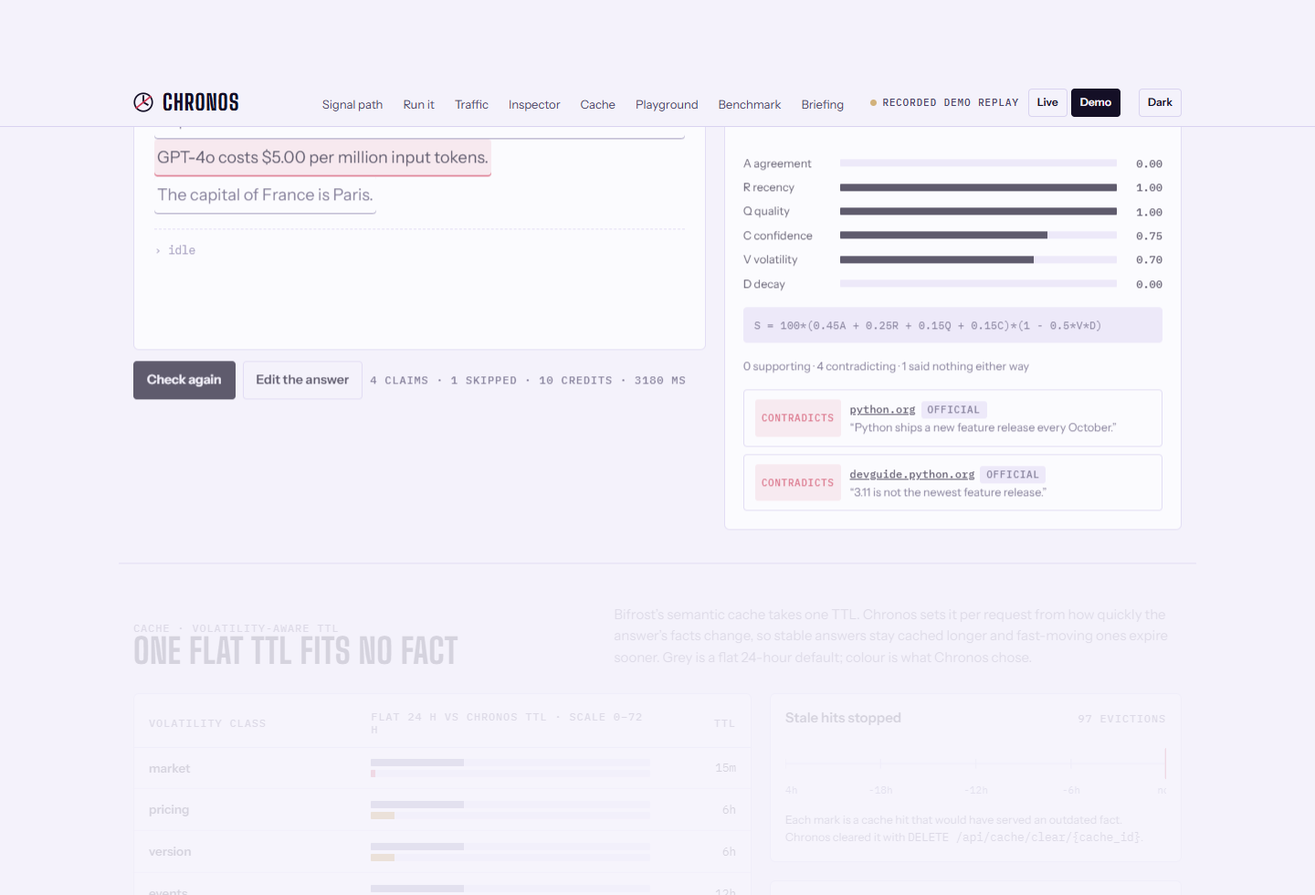
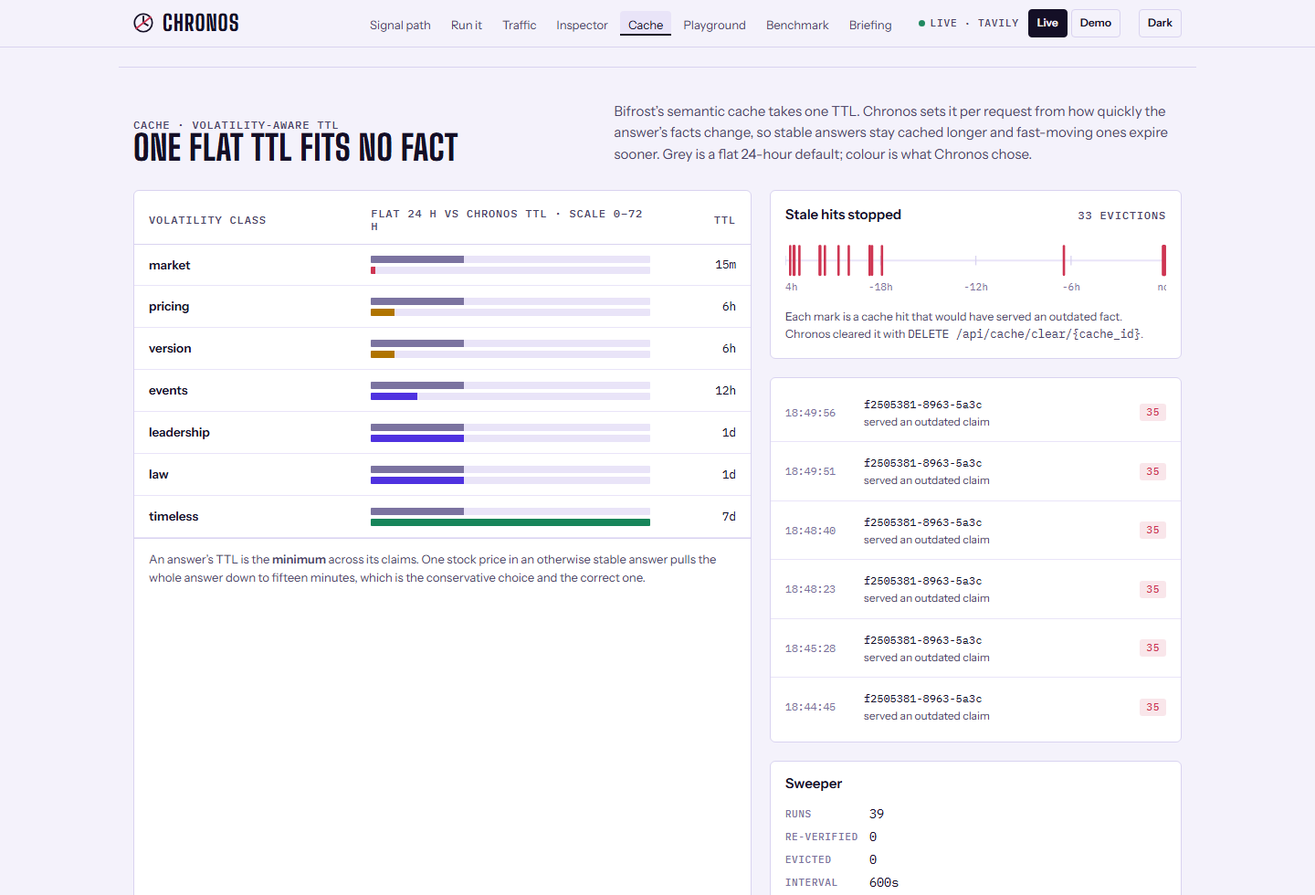
docs: regenerate the screenshots live, add seven, and point at the hosted demo
Fifteen shots from the console running live against the local stack, made
by the readme-suite's shots.mjs: the shot list now uses only clicks and
waits, so the documented command is the whole recipe. New: the signal path,
Run it at the verdict and after eviction, a live inspector check, the
playground, briefing, and two phone layouts.

README opens on the hosted demo and an eight-image gallery. Counts brought
up to date: 49 checks, 115 console tests.

diff --git a/README.md b/README.md
@@ -21,7 +21,8 @@ actually move, and **deletes the cache entry behind any answer it finds has gone
 It is not a fact checker. It has no opinion about anything without a date, it will not rewrite
 an answer, and it is not a proxy in front of a gateway — it is a plugin compiled into one.
 
-**Start here:** [see it work](TESTING.md) · [what is verified](#what-is-verified-and-what-is-not) ·
+**Start here:** [try the live demo](https://chronos-sable-one.vercel.app/) ·
+[see it work](TESTING.md) · [what is verified](#what-is-verified-and-what-is-not) ·
 [how it works](ARCHITECTURE.md) · [all the docs](docs/README.md)
 
 ---
@@ -49,26 +50,36 @@ an answer, and it is not a proxy in front of a gateway — it is a plugin compil
 
 ## What it looks like
 
+**Try it now: [chronos-sable-one.vercel.app](https://chronos-sable-one.vercel.app/)** — the
+real console, hosted as static files. With no backend behind it, it replays a recorded log and
+says so in the header (*"Recorded demo replay"*). Press **Start the walkthrough** for a nine-step
+tour, or scroll to **Run it** and drive the whole cycle yourself with one button.
+
+Everything below was captured from the console running **live** against the local stack —
+real gateway, real verifier, real Tavily searches — except the briefing, which is the recorded
+demo and is labelled so on screen.
+
 | | |
 |---|---|
-| ![The inspector: a cached answer with four highlighted claim spans, one scored 36 and marked outdated, beside its score breakdown and two contradicting sources](docs/screenshots/console-inspector.png) | ![The cache section: seven volatility classes with their chosen TTLs as bars against a flat 24-hour default, beside a ledger of fifteen evictions with cache ids and scores](docs/screenshots/console-cache.png) |
-| **The inspector.** The claims found inside one cached answer, each scored, with every term of the formula and the pages that disagreed, quoted. This is the product. | **The cache ledger.** What Chronos chose for each volatility class against a flat default, and the real evictions underneath, with the cache ids it deleted. |
+| ![The opening: a dark stage with a rotating violet globe, the headline "Your cache remembers. Chronos checks.", two buttons, and three live counters reading 4,748 answers checked, 33 stale cache hits stopped and 79% of Tavily calls saved](docs/screenshots/console-hero.png) | ![The five-step cycle finished in live mode: the cached Python answer struck through, the note "DELETE /api/cache/clear/610663b3…", and a score dial at 35 with the real headers x-chronos-verdict outdated and x-bifrost-cache-hit true](docs/screenshots/console-run-it-evicted.png) |
+| **The opening.** The counters are read from the running verifier, not typed. | **Run it, step five, live.** A real cache hit, verdict `outdated` at 35, and the entry deleted through the gateway's own cache API. This is the product in one screen. |
+| ![The inspector after a live check: three claims highlighted in an answer, the Python version claim scored 39 with every term of the formula, and sources quoted, including python.org marked as contradicting it](docs/screenshots/console-inspector-live.png) | ![The playground: two raw responses side by side, the first a cache hit with x-chronos-verdict outdated and score 35, the second a cache miss after eviction with verdict pending](docs/screenshots/console-playground.png) |
+| **Inside one answer, live.** Each claim is scored with every term visible, and the pages that disagreed are quoted with their dates. | **Raw traffic.** The same question twice, headers printed exactly as the browser received them: caught on the hit, evicted, then a miss. |
+| ![The cache section: seven volatility classes with their TTLs as bars against a flat 24-hour default, from 15 minutes for market to 7 days for timeless, beside a timeline and ledger of evictions with cache ids](docs/screenshots/console-cache.png) | ![The benchmark section read from bench/results.json: precision 0.40, recall 0.20, a 100% timeless skip rate, latency p50 841 ms, and Tavily credits per thousand answers falling from 3000 cold to 1833 warm](docs/screenshots/console-bench.png) |
+| **One flat TTL fits no fact.** What Chronos chose for each class, and every stale hit it stopped. | **Measured, not promised.** The rule engine's own weak numbers, read from the results file, not typed. |
+| ![The signal path with step six held: Tavily brings the evidence, its box ringed in magenta, and the other seven steps listed with their owners](docs/screenshots/console-signal-path.png) | ![Briefing mode in the recorded demo: three columns of verified lines, unconfirmed lines with their reasons, and open questions to ask in the meeting](docs/screenshots/console-briefing.png) |
+| **Who does what.** Eight steps of one request, coloured by owner. | **Briefing mode.** The same engine checking its own brief; what it could not confirm becomes a question. |
 
-Both are captures of the running console, regenerated by a script whose shot list is in the
-repository at `docs/screenshots/shots.json`. More of them, and the design they are built to:
-[docs/ui.md](docs/ui.md).
+More, including phone layouts and dark mode, with the design they are built to:
+[docs/ui.md](docs/ui.md). Every image is regenerated by the readme-suite's `shots.mjs` from the
+shot list kept at `docs/screenshots/shots.json`.
 
-You can open the console itself without installing anything. It works with **no backend**:
-when the verifier is unreachable it replays a recorded log and labels itself *"Recorded demo
-replay"* on the page. It opens on a full screen of argument and offers a **guided
-walkthrough** — nine steps that scroll the real page and ring the panel being discussed.
+The hosted demo is the same folder this builds, so it can go anywhere that serves static files:
 
 ```bash
 ./scripts/build-demo-site.sh          # needs Node; writes console/dist-demo
 npx http-server console/dist-demo -p 8099
 ```
-
-That folder is plain static files with relative paths, so it can be hosted anywhere.
 
 ### The cycle, as it actually ran
 
@@ -194,7 +205,7 @@ Real output, trimmed to the end:
   PASS degrade path: the gateway still answers with the verifier down
 
 == summary ==
-  44 passed, 0 failed, 0 skipped
+  49 passed, 0 failed, 0 skipped
 ```
 
 Each check prints what it asserted, so a pass means something specific rather than the absence
@@ -516,7 +527,7 @@ Reproduce: [TESTING.md § level 4](TESTING.md#level-4--reproduce-the-numbers).
 
 ## What is verified, and what is not
 
-`./scripts/verify-all.sh` — **44 checks, 44 passing** on this machine, and the same script CI
+`./scripts/verify-all.sh` — **49 checks, 49 passing** on this machine, and the same script CI
 runs. It asserts specifics, not the absence of errors:
 
 | What was checked | Evidence |
@@ -530,14 +541,14 @@ runs. It asserts specifics, not the absence of errors:
 | **The gateway survives Chronos failing** | the verifier is stopped mid-run and the gateway must keep answering |
 | Plugin logic | `go test -race ./...`: 50 test functions, 120 cases counting subtests |
 | Verifier logic | `pytest tests/`: 134 tests |
-| Console logic and rendering | 2 checks running `npm test` in `console/`: 109 tests, including a fidelity check against `design/chronos-console.html` |
+| Console logic and rendering | 2 checks running `npm test` in `console/`: 115 tests, including a fidelity check against `design/chronos-console.html` |
 | Repository hygiene | no `.env` tracked, no credential-shaped string in any tracked file |
 
 Quality, separately, is [measured above](#measured-results) rather than asserted.
 
 ### Not verified, and should be
 
-1. **Two of the 44 checks depend on a live web search and are genuinely flaky.** On 7 Nov,
+1. **Two of the 49 checks depend on a live web search and are genuinely flaky.** On 7 Nov,
    one run had `P4: the cached stale answer was caught` fail with `verdict=unverifiable`
    because the search returned nothing that addressed the claim; the next run passed with
    `outdated`, score 39. Recorded evidence for those two checks would fix it, at the cost of
@@ -546,10 +557,16 @@ Quality, separately, is [measured above](#measured-results) rather than asserted
    figure. A full `--limit 0` run would, and costs roughly 400 Tavily credits.
 3. **`guard` mode's regenerate and 409 paths have never run through the gateway.** They are
    unit-tested in `plugin/` only. An end-to-end check in `verify-all.sh` would settle it.
-4. **Nothing renders the console in a real browser engine.** Its 109 tests run under jsdom,
+4. **Nothing renders the console in a real browser engine.** Its 115 tests run under jsdom,
    which reports what the components produce rather than what a browser paints, so a CSS
    mistake — a panel that overflows, a colour with no contrast — passes all of them. The
-   screenshots are the only evidence of that, and a person looks at them.
+   screenshots are the only evidence of that, and a person looks at them. That is not a
+   formality: looking at them on 8 Nov found five faults every test had passed — the
+   briefing's open questions wrapping one word to a line, the playground titling a cache miss
+   "cache hit", a recorded inspector report unlabelled under a LIVE header, a hovered link
+   vanishing on the dark header, and the page 120px too wide on a phone. All are fixed; the
+   three a component test can see now have one. A browser-level test suite would catch the
+   other two.
 5. **No load testing of any kind.** The highest concurrency exercised is 2 claims and 3
    Tavily calls. What breaks first is probably the verifier's own event loop under SSE
    subscribers, and no test would catch it today.

diff --git a/docs/ui.md b/docs/ui.md
@@ -15,22 +15,34 @@ text, which is the readable way to diff the copy.
 
 ## What it looks like
 
+Captured from the console running **live** against the local stack on 8 Nov 2026, apart from
+the briefing and the phone cycle, which are the recorded demo and say so in the header. The
+same console is hosted with no backend at <https://chronos-sable-one.vercel.app/>.
+
 | | |
 |---|---|
-| ![The console hero: a headline reading "Your cache remembers. Chronos checks.", three live counters, and a chart of how fast a cached fact goes stale by volatility class](screenshots/console-hero.png) | ![The inspector: a cached answer with four highlighted claim spans, one scored 36 and marked outdated, beside its score breakdown and two contradicting sources](screenshots/console-inspector.png) |
-| **The hero.** Live counters from `/v1/stats`, and the decay curves that explain why one TTL cannot fit every fact. | **The inspector.** The signature mechanism, visible: claims lit up inside the answer, the score with every term of the formula, and the pages that disagreed, quoted. |
-| ![The cache section: seven volatility classes with their TTLs as bars against a flat 24-hour default, beside a ledger of fifteen evictions with their cache ids and scores](screenshots/console-cache.png) | ![The signal path in dark mode: five boxes from Client through Chronos, the semantic cache and the provider to Tavily, with an eight-step walkthrough advancing on the right](screenshots/console-dark.png) |
-| **The cache.** What Chronos chose against a flat default, and a ledger of real evictions with their cache ids. | **The signal path, in dark mode.** Eight steps through one request, colour-coded by who owns each — Bifrost, Tavily, Chronos. |
-| ![The traffic feed: a live SSE stream of verified answers with verdicts and scores](screenshots/console-traffic.png) | ![The benchmark section showing a recorded request pair — a cache hit with x-chronos-verdict outdated, then a miss after eviction — above the StaleBench results read from bench/results.json](screenshots/console-bench.png) |
-| **Traffic.** Every verification as it finishes, over SSE. | **Playground and benchmark.** A real recorded exchange with its headers, then the numbers read straight from `bench/results.json`. |
-| ![The Run it section mid-cycle: five numbered steps with the first four ticked, a cached answer with its claims highlighted, and a score dial reading 38 beside the response headers](screenshots/console-run-it.png) | |
-| **Run it, mid-cycle.** Five steps a judge drives with one button. This is the real gateway: the headers beside it came off an actual response. | |
-| ![The guided walkthrough on step 4 of 8, a bar across the foot of the page reading "This is the product", with the inspector section ringed above it](screenshots/console-walkthrough.png) | |
-| **The walkthrough, step 4.** Eight steps that scroll the real page and ring the section being talked about. | |
+| ![The opening: a dark stage with a rotating violet globe, the headline "Your cache remembers. Chronos checks.", two buttons and three live counters](screenshots/console-hero.png) | ![The guided walkthrough on step 4 of 9, a draggable card on the right reading "Every answer gets checked", with the traffic section ringed](screenshots/console-walkthrough.png) |
+| **The opening stage.** Live counters from `/v1/stats` over a rotating globe, and the two ways in. | **The walkthrough, step 4 of 9.** A card on the right that can be dragged out of the way; it scrolls the real page and rings the section being talked about. |
+| ![The signal path with step six held: the Tavily box ringed in magenta, and eight steps listed with their owners](screenshots/console-signal-path.png) | ![The same signal path in dark mode with step three, the semantic cache, highlighted](screenshots/console-dark.png) |
+| **The signal path.** Eight steps through one request, coloured by who owns each — Bifrost, Tavily, Chronos. Pause holds a step. | **Dark mode.** The same instrument with the dark tokens from the design reference. |
+| ![Run it at step four in live mode: a score dial at 35, verdict outdated, and the real response headers including x-bifrost-cache-hit true](screenshots/console-run-it.png) | ![Run it finished: the cached answer struck through and the note DELETE /api/cache/clear with the cache id](screenshots/console-run-it-evicted.png) |
+| **Run it, step four, live.** The verdict read off a real reply to a real cache hit. | **Run it, step five.** The stale entry deleted through the gateway's cache API. |
+| ![The traffic feed: rows of answers with source cache or provider, verdicts and scores, beside counters and verification latency](screenshots/console-traffic.png) | ![The inspector opening on its recorded example, labelled "Recorded example · Check again runs it live", with the Python claim's score breakdown and two official sources contradicting it](screenshots/console-inspector.png) |
+| **Traffic.** Every verification as it finishes, over SSE. Blue rows came from the cache. | **The inspector, before a check.** It opens on a recorded example and, in Live mode, says so. |
+| ![The inspector after a live check: three claims, verdict outdated 30, and sources quoted from the live web](screenshots/console-inspector-live.png) | ![The playground: a cache hit caught as outdated, then a cache miss after eviction, each with its raw headers](screenshots/console-playground.png) |
+| **The inspector, after Check again.** The same answer verified live; the sources are today's pages. | **The playground.** Headers exactly as the browser received them. Each panel's label is read from those headers. |
+| ![The cache section: seven volatility classes with TTL bars against a flat 24-hour default, an eviction timeline and a ledger of cache ids](screenshots/console-cache.png) | ![The benchmark cards read from bench/results.json](screenshots/console-bench.png) |
+| **The cache.** What Chronos chose against a flat default, and every stale hit it stopped. | **The benchmark.** Read from `bench/results.json`; the rule engine's weak numbers included. |
+| ![Briefing mode in the recorded demo: verified lines, unconfirmed lines with reasons, and open questions](screenshots/console-briefing.png) | ![The opening stage on a 390-pixel phone: the headline, stacked buttons and counters over the globe](screenshots/console-phone.png) |
+| **Briefing mode.** Contradictions become questions to ask in the room. | **A phone, 390 px.** The page never scrolls sideways at 360, 390, 430, 520, 640 or 768 px, measured. |
+| ![Run it on a phone in the recorded demo: the score dial at 39, verdict outdated, and the headers in a scrolling panel](screenshots/console-phone-run-it.png) | |
+| **Run it on a phone.** The five steps stack into one column. | |
 
 Every one of these is regenerated from the running console by
 `node <readme-suite>/scripts/shots.mjs --file docs/screenshots/shots.json`, with the shot
-list kept in the repo at `docs/screenshots/shots.json`. They are captures, not mock-ups.
+list kept in the repo at `docs/screenshots/shots.json`. Every shot uses only the steps that
+script understands — clicks and waits — so the command above is the whole recipe. They are
+captures, not mock-ups. The live ones vary run to run, because the counters and the web do.
 
 ## The opening stage and the walkthrough
 
@@ -247,7 +259,7 @@ filled in `--bad` — which survives 16 px. The source is `design/icon.svg`;
 
 ## How it is checked
 
-**109 tests**, in eight files, run by `npm test` in `console/` and by
+**115 tests**, in nine files, run by `npm test` in `console/` and by
 `scripts/verify-all.sh`.
 
 | File | Covers |

diff --git a/TESTING.md b/TESTING.md
@@ -16,9 +16,9 @@ Level 1 needs nothing installed and no credentials.
 > from how fast the answer's facts actually move, and deletes the cache entry behind any
 > answer it finds stale. It runs on free open-weights models and a free Tavily key, and the
 > whole stack runs with no credentials at all against a built-in mock provider.
-> The console builds to a static folder that runs with no backend
-> (`./scripts/build-demo-site.sh`), replaying a recorded log and labelled as such.
-> `./scripts/verify-all.sh` runs 44 checks end to end; on a 18-claim benchmark subset the
+> The console builds to a static folder that runs with no backend, replaying a recorded log
+> and labelled as such; it is hosted at https://chronos-sable-one.vercel.app/.
+> `./scripts/verify-all.sh` runs 49 checks end to end; on a 18-claim benchmark subset the
 > model path scores precision 0.80 and recall 0.667 against a rule-only baseline of 0.40 and
 > 0.20. Built during the event with Claude Code; see the README's disclosure.
 
@@ -30,7 +30,7 @@ Level 1 needs nothing installed and no credentials.
 | :--- | :--- | :--- | :--- |
 | **1. Open the demo site** | a browser, nothing installed | 3 min | The real console, and a five-step demo of the whole cycle you drive yourself |
 | **2. Run the stack** | Docker | ~8 min first build, 1 min after | Live data, and the miss → hit → evicted → miss cycle by hand |
-| **3. Run the checks** | Docker | ~12 min | 44 assertions, end to end |
+| **3. Run the checks** | Docker | ~12 min | 49 assertions, end to end |
 | **4. Run the benchmark** | Docker + a free Tavily key + a free Groq key | ~6 min | The quality numbers, reproduced |
 
 Levels 1 to 3 need **no API keys**. Only level 4 does, and both are free with no card.
@@ -39,16 +39,19 @@ Levels 1 to 3 need **no API keys**. Only level 4 does, and both are free with no
 
 ## Level 1 — two minutes, nothing installed
 
+Open **<https://chronos-sable-one.vercel.app/>**.
+
 The console is a static bundle, and it works with **no backend at all**: when the verifier is
-unreachable it replays a recorded log and says so on the page. That is the demo site.
+unreachable it replays a recorded log and says so on the page. The header should read
+**"Recorded demo replay"** — that is the fallback working, not a failure. Nothing on that page
+is presented as live.
+
+To serve the same folder yourself instead:
 
 ```bash
 ./scripts/build-demo-site.sh          # needs Node; writes console/dist-demo
 npx http-server console/dist-demo -p 8099
 ```
-
-Open <http://localhost:8099>. The header should read **"Recorded demo replay"** — that is the
-fallback working, not a failure. Nothing on that page is presented as live.
 
 Scroll to **Run it**. Press **Start**, then **Next** four times. That is the whole product
 in five steps: ask a question, ask it again and hit the cache, watch the claims get checked,
@@ -56,7 +59,7 @@ read the verdict off the response headers, watch the stale entry be deleted. Wit
 running it sends real requests and shows real headers; without it, the same five steps replay
 a recorded exchange and say so.
 
-Press **Start the walkthrough**. Eight steps, about two minutes, in the order the product
+Press **Start the walkthrough**. Nine steps, about two minutes, in the order the product
 actually happens: the problem, where Chronos sits, answers being checked, the claims and the
 score, the TTL policy and the eviction ledger, the headers on the response, the measured
 numbers, the briefing. It scrolls the real page and rings the panel it is talking about —
@@ -128,7 +131,7 @@ three requests behave the same way.
 ./scripts/verify-all.sh --unit     # the test suites only, no stack
 ```
 
-44 checks. Each one prints what it asserted, so a pass means something specific rather than
+49 checks. Each one prints what it asserted, so a pass means something specific rather than
 "no errors": that the gateway loaded `chronos.so`, that a second identical request is a cache
 hit, that Chronos set a six-hour TTL for a `version` claim, that a stale cached answer is
 caught and evicted and the next request misses, that the nine headers are exposed to a
@@ -163,7 +166,7 @@ subset is entirely `leadership`, the hardest class, and it is not a cross-class 
 
 ## Known limits, before you find them
 
-- **Two of the 44 checks depend on a live web search and are genuinely flaky.** On 7 Nov one
+- **Two of the 49 checks depend on a live web search and are genuinely flaky.** On 7 Nov one
   run had them fail with `verdict=unverifiable`; the next run passed with `outdated`, score
   39. The script says so itself: *"live search results vary; re-run if transient"*.
 - **The benchmark numbers move between runs** for the same reason.
@@ -173,7 +176,7 @@ subset is entirely `leadership`, the hardest class, and it is not a cross-class 
   through the gateway end to end.
 - **Streaming answers are not content-verified.** They get headers with verdict `pending`.
 - **Never run on macOS or Linux.** Windows with Docker Desktop throughout.
-- **Nothing renders the console in a real browser engine.** Its 109 tests run under jsdom,
+- **Nothing renders the console in a real browser engine.** Its 115 tests run under jsdom,
   so a CSS mistake passes all of them. The screenshots are the only evidence of that.
 
 The full list is in [README.md](README.md#not-verified-and-should-be).

diff --git a/docs/development.md b/docs/development.md
@@ -63,9 +63,9 @@ Inside the verifier, the pipeline reads top to bottom:
 | Go | `go test ./...` in `plugin/` | Go 1.27.3 | 50 test functions, 120 cases counting subtests: config precedence, classification, header assembly, the result store's bounds and TTL, eviction, payload shaping, the loop guard |
 | Go race | `go test -race ./...` in `plugin/` | the same | The result store is read from one hook and written from another |
 | Python | `pytest tests/` in `verifier/` | `requirements-dev.txt` | 134 tests: scoring, extraction, the rule judge, the claim cache and API, the pacer, page text |
-| Console | `npm test` in `console/` | Node 22 | 109 tests: the data layer, the state hook, what each section renders, the animated hero, the walkthrough, and fidelity against the design reference |
+| Console | `npm test` in `console/` | Node 22 | 115 tests: the data layer, the state hook, what each section renders, the animated hero, the walkthrough, fidelity against the design reference, and the layout and labelling faults found by looking at screenshots |
 | Console types | `npm run typecheck` in `console/` | Node 22 | The app, then the tests under their own config |
-| End to end | `./scripts/verify-all.sh` | Docker | 44 checks: the suites above, then the stack |
+| End to end | `./scripts/verify-all.sh` | Docker | 49 checks: the suites above, then the stack |
 | Benchmark | `python bench/runner.py` | a running verifier | Quality against StaleBench. Not a pass/fail suite |
 
 `./scripts/verify-all.sh --unit` runs the test suites without bringing the stack up, and
@@ -113,7 +113,7 @@ nobody can argue with, which defeats the point.
 
 ## Before opening a pull request
 
-1. `./scripts/verify-all.sh` — all 44, from a clean stack.
+1. `./scripts/verify-all.sh` — all 49, from a clean stack.
 2. `go vet ./...` in `plugin/`, and `ruff check` in `verifier/`.
 3. `npm run typecheck` and `npm test` in `console/` if you touched it.
 4. Read [../AGENTS.md](../AGENTS.md). It lists the rules the code cannot enforce — the ones

diff --git a/docs/deployment.md b/docs/deployment.md
@@ -160,7 +160,9 @@ shaped like this one, so the file declared a build that never ran. The single-pr
 above is the route that was actually tested.
 
 That route builds with Vite's default base, so asset paths are absolute and it is served from
-a domain root — which is what Vercel gives you. `console/public/results.json` is committed
+a domain root — which is what Vercel gives you. The hosted demo at
+<https://chronos-sable-one.vercel.app/> is served exactly this way: absolute `/assets/` paths
+from the domain root, `results.json` beside them, the header reading *"Recorded demo replay"*. `console/public/results.json` is committed
 and identical to `bench/results.json`, so the benchmark panel shows the measured numbers
 without `build-demo-site.sh` being involved at all.
 
@@ -190,6 +192,14 @@ server-side anything.
 - **The console's URLs are compiled in.** `VITE_VERIFIER_URL` and `VITE_BIFROST_URL` are
   baked at build time, so changing them needs `docker compose build console`.
 - **Bifrost's web dashboard is stubbed out**, deliberately, to keep the image small.
+- **The hosted demo cannot switch to Live against your own stack.** An `https` page may not
+  fetch the plain-`http` verifier on `localhost`: it is mixed content, and Chromium also
+  refuses a public origin reaching a loopback address. The request fails before it leaves the
+  tab. So on an `https` origin with an `http` verifier URL the console does not probe at all
+  (`api.blockedByBrowser` in `console/src/api.ts`) — before 8 Nov it probed anyway and logged
+  a CORS error on every page load. Pressing Live there makes the panels report the verifier
+  unreachable, and Run it falls back to its labelled recording. For live data, run the stack
+  and open <http://localhost:5173>.
 
 Nothing here is authenticated inside the compose network. Read
 [security.md](security.md) before putting any of it on a network you do not own.

diff --git a/docs/troubleshooting.md b/docs/troubleshooting.md
@@ -45,7 +45,7 @@ These do not raise an error. Something that should be happening silently stops.
 
 | Symptom | Cause | What to do |
 | :--- | :--- | :--- |
-| `P4: the cached stale answer was caught` fails with `verdict=unverifiable` | A live Tavily search for the claim returned nothing that addressed it. Two of the 44 checks depend on live search | Re-run. On 7 Nov this failed once and passed on the next run, verdict `outdated`, score 39. The script prints "live search results vary; re-run if transient" |
+| `P4: the cached stale answer was caught` fails with `verdict=unverifiable` | A live Tavily search for the claim returned nothing that addressed it. Two of the 49 checks depend on live search | Re-run. On 7 Nov this failed once and passed on the next run, verdict `outdated`, score 39. The script prints "live search results vary; re-run if transient" |
 | A claim is `outdated` on one run and `check` on the next | The same cause: a different result set | Expected. Single-run benchmark figures move by several points |
 | The benchmark reports a false positive on a claim labelled `current` | StaleBench's `current` labels decay by construction. "Tim Cook is the CEO of Apple" is the known one, where the evidence pointed at a successor | `python bench/runner.py --audit` prints every disagreement with its label confidence and source. A decayed label and a real error look identical in a score |
 | An official source is in the evidence and was called `insufficient` | The judge sees an 800-character window of each page, and the sentence that settles the claim can fall outside it | Observed on `python.org/downloads/windows`, whose fallback page is mostly navigation. `CHRONOS_JUDGE_SNIPPET_CHARS` widens the window at the cost of tokens |

diff --git a/AGENTS.md b/AGENTS.md
@@ -145,14 +145,14 @@ All five are checks in `scripts/verify-all.sh`.
 ## Commands
 
 ```bash
-./scripts/verify-all.sh              # 44 checks, needs Docker
+./scripts/verify-all.sh              # 49 checks, needs Docker
 ./scripts/verify-all.sh --unit       # the test suites only, no stack
 ./scripts/verify-all.sh --no-build   # reuse images while iterating
 ./scripts/check-model.sh --all       # which models your key reaches today
 python bench/runner.py --limit 18 --audit
 ```
 
-Two of the 44 depend on a live Tavily search and are genuinely flaky; see
+Two of the 49 depend on a live Tavily search and are genuinely flaky; see
 [docs/troubleshooting.md](docs/troubleshooting.md#verification-and-benchmarking) before
 assuming you broke something.
 
